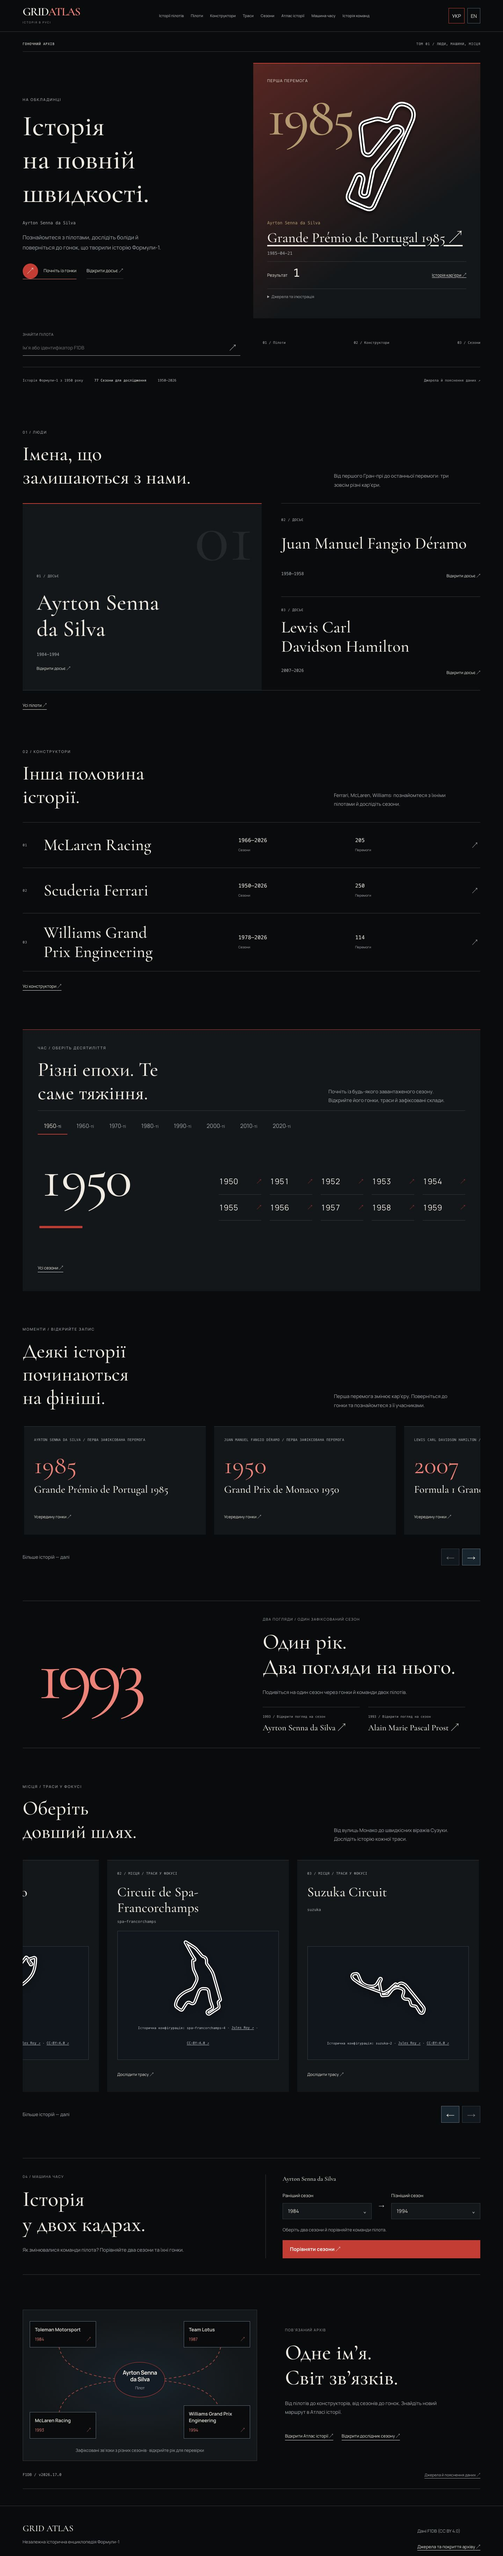
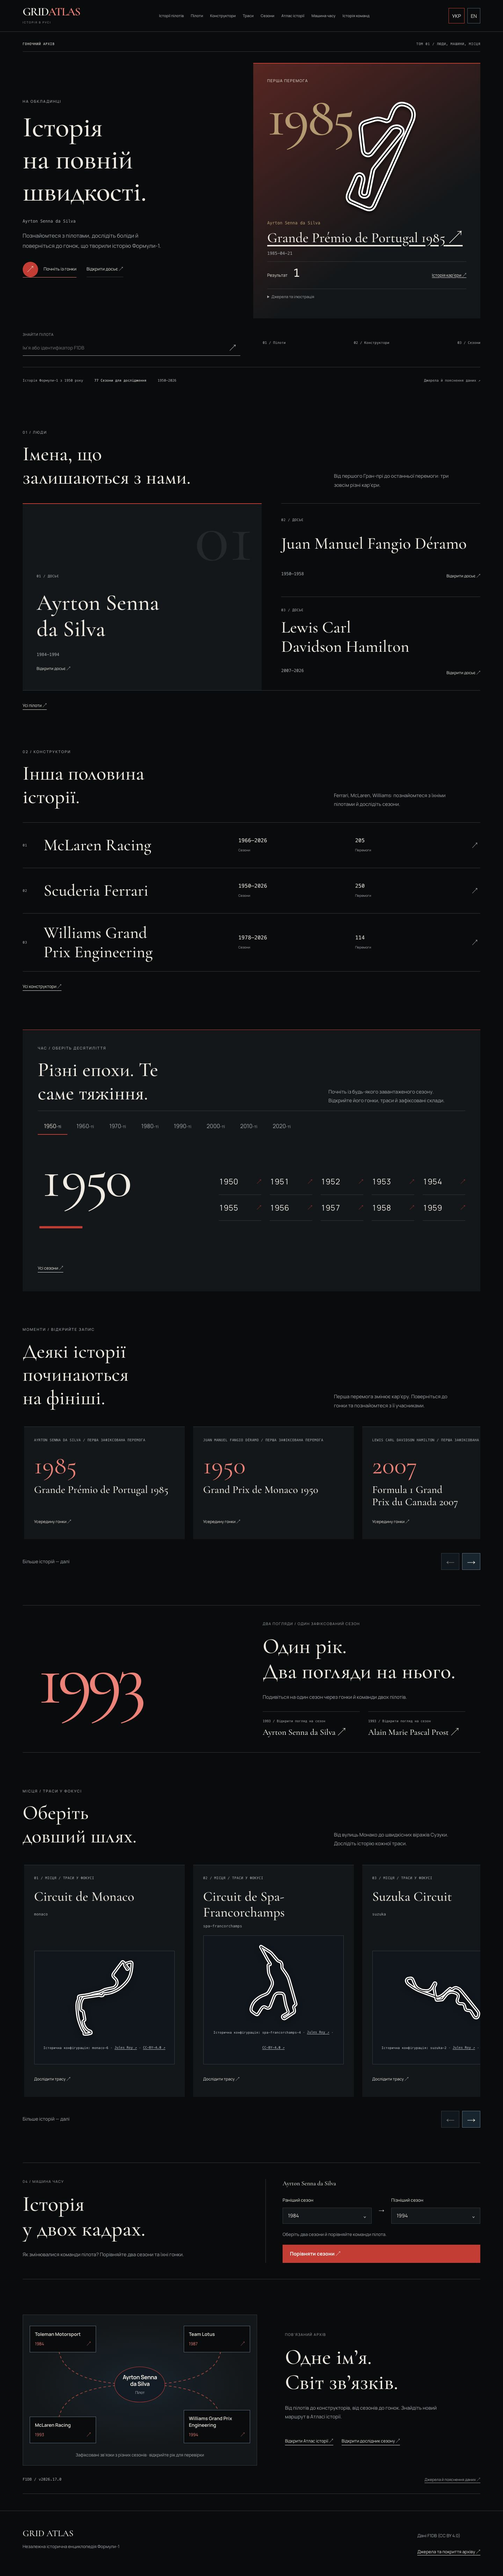
make before-after capture positions comparable

diff --git a/docs/design/editorial-overhaul/verification.md b/docs/design/editorial-overhaul/verification.md
@@ -24,7 +24,7 @@ All commands used Node 24.21.0 and pnpm 10.18.3 in `/private/tmp/grid-atlas-ux1`
 | `pnpm test` | PASS, 350 tests after upstream refresh |
 | `python3 -m unittest discover -s tests -v` | PASS, 434 tests at audited source baseline |
 | `GRID_ATLAS_NEXT_DIST_DIR=.next-test pnpm build` | PASS, production build |
-| `DATABASE_URL=...:55466/grid_atlas pnpm test:integration` | PASS, 45 pass / 0 skip; opt-in publication check ran in a separate fresh disposable database, never the genuine archive |
+| `DATABASE_URL=.../grid_atlas_ux_editorial_test RUN_EDITORIAL_PUBLICATION_DB_ACCEPTANCE=1 pnpm test:integration` | PASS, 45 pass / 0 skip; opt-in publication check ran in a separate fresh disposable database, never the genuine archive |
 | Full `GRID_ATLAS_NEXT_DIST_DIR=.next-test pnpm exec playwright test` | 516 passed; four Time Machine checks had an ambiguous text locator after copy changes. Corrected it to the exact definition term; no product check disabled. |
 | `... pnpm exec playwright test tests/browser/time-machine.spec.ts tests/browser/editorial-overhaul.spec.ts` | PASS, 28 tests; includes every remaining failed check, grouped career/archive years, native form submission, Escape/focus, enlarged UK/EN headings. |
 | Final public-copy browser recheck | PASS,72 tests covering profile status disclosures, constructor sources, no-JS evidence, Explorer outages and navigation. |
@@ -49,3 +49,5 @@ The independent audit covered the public profile, Time Machine, Atlas and Explor
 All 45 API integration checks, including the opt-in publisher, passed in a separate fresh fixture database (`grid_atlas_ux_editorial_test`); synthetic publication data never entered the imported archive. Updated candidate CI and final combined evidence are recorded in the PR.
 
 The expanded copy pass completed 510 of 520 synthetic checks; ten remaining failures used retired wording. Updated their accessible locators and verified all in the72-test recheck above. Real-archive checks use the new career navigation label and an explicit submit-button selector after Select enhancement. Candidate CI reruns the whole suite.
+
+Final capture resets horizontal rail positions after lazy image loading, so comparison images show the same initial rail position. Updated homepage/catalogue screenshots also match the combined rendering; no season/circuit detail code changes those components.
